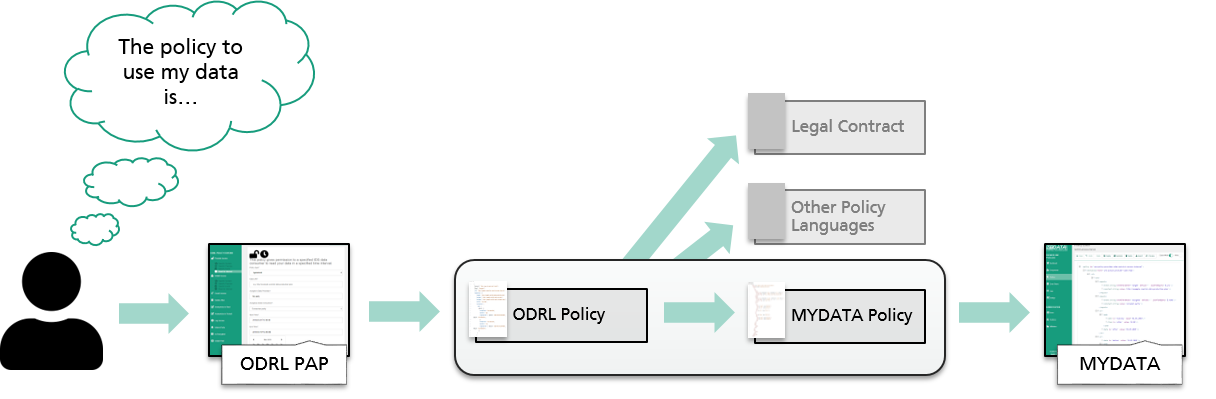
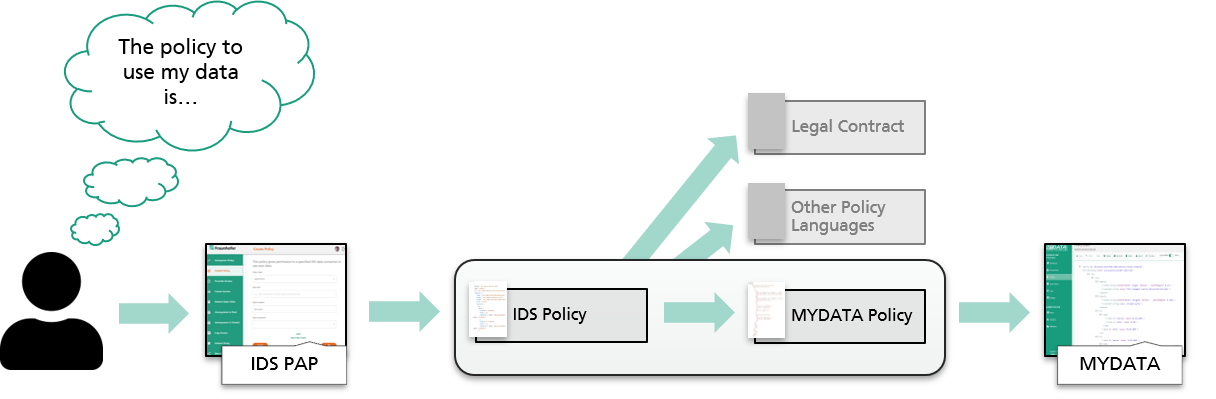
- Renamed ODRL to IDS - Fixed link to "how to" site - Updated pap_editor_scenario.png

Changed region(s): [[0.1562, 0.6015, 0.3125, 0.9323], [0.4062, 0.7519, 0.5, 0.812], [0.875, 0.8421, 0.9688, 0.8722]]

diff --git a/src/main/ui/src/pages/Home.js b/src/main/ui/src/pages/Home.js
@@ -70,13 +70,13 @@ export default function Home() {
           There are variety of Data Usage Control policies that can be defined
           by data providers to protect their data.
           The Open Digital Rights Language (
-          <a href="https://www.w3.org/TR/odrl-model/" className={classes.link}>ODRL</a>) is a policy
+          <a href="https://www.w3.org/TR/odrl-model/" className={classes.link}>IDS</a>) is a policy
           expression language that provides a flexible and interoperable
           information model, vocabulary, and encoding mechanisms for
           representing statements about the usage of content and services.
         </Typography>
         <Typography variant="body1">
-          <a href="https://www.w3.org/TR/odrl-model/" className={classes.link}>ODRL</a> policies are
+          <a href="https://www.w3.org/TR/odrl-model/" className={classes.link}>IDS</a> policies are
           technology-independent and are not made to be technically enforced to
           a system. Therefore, it is been decided to use this language as a
           baseline for other technology-dependent solutions that can enforce
@@ -95,16 +95,16 @@ export default function Home() {
         <Typography variant="body1">
           In this tool, we have implemented an editor that supports the data
           providers to specify their Data Usage Control{" "}
-          <a href="https://www.w3.org/TR/odrl-model/" className={classes.link}>ODRL</a> policies.
+          <a href="https://www.w3.org/TR/odrl-model/" className={classes.link}>IDS</a> policies.
           In addition, they can use this tool to translate the{" "}
-          <a href="https://www.w3.org/TR/odrl-model/" className={classes.link}>ODRL</a> policies to{" "}
+          <a href="https://www.w3.org/TR/odrl-model/" className={classes.link}>IDS</a> policies to{" "}
           <a href="https://developer.mydata-control.de/" className={classes.link}>MYDATA</a> policies
         </Typography>
         <br />
         <Typography variant="h5">
           Click{" "}
           <u>
-            <a href="https://odrl-pap.ids.isst.fraunhofer.de/" className={classes.link}>here</a>
+            <a href="https://odrl-pap.ids.isst.fraunhofer.de/policy/HowTo" className={classes.link}>here</a>
           </u>{" "}
           to learn how to use this editor!
         </Typography>
@@ -122,7 +122,7 @@ export default function Home() {
                 IDS confluence
               </a>{" "}
               to get more information about the policy transformation rules,
-              ODRL and MYDATA policy specification and IDS specific profile.{" "}
+              IDS and MYDATA policy specification and IDS specific profile.{" "}
               
               IDS profile includes information model about the IDS Actions and
               IDS Left Operands.
